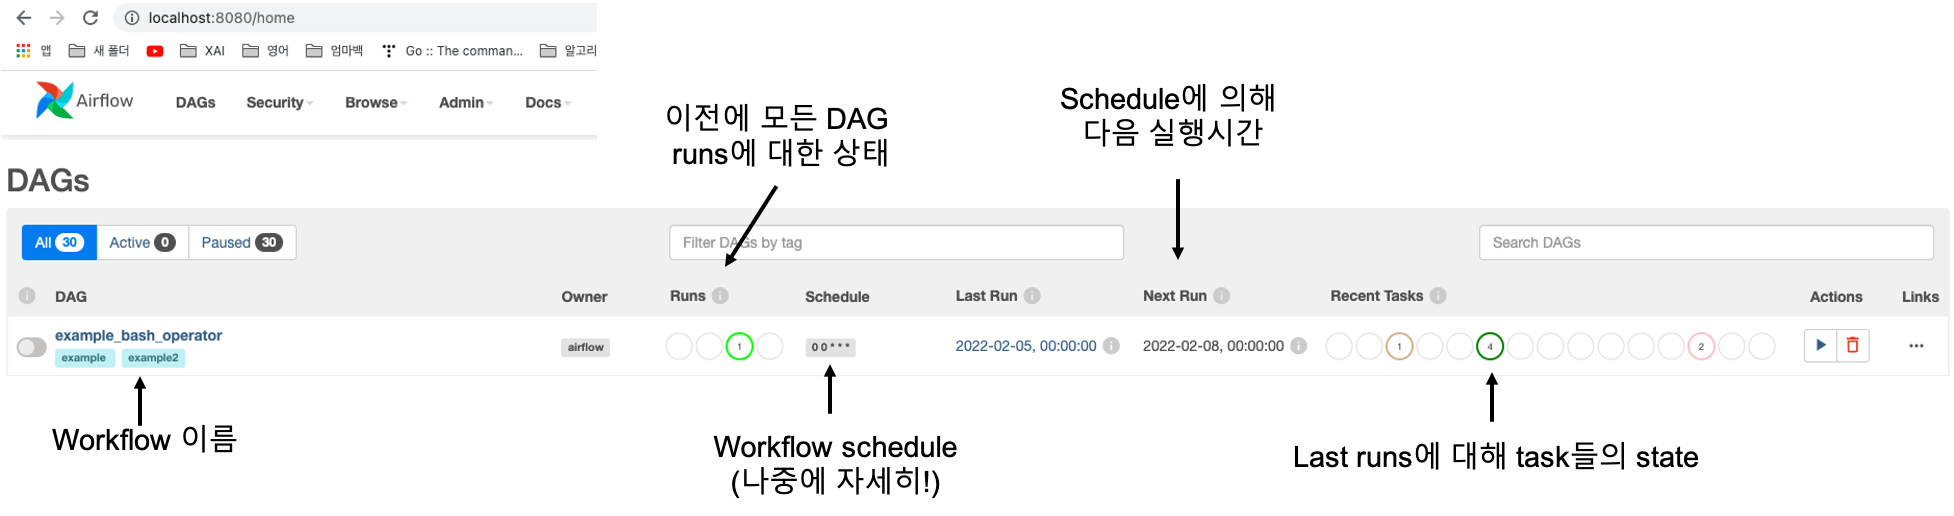
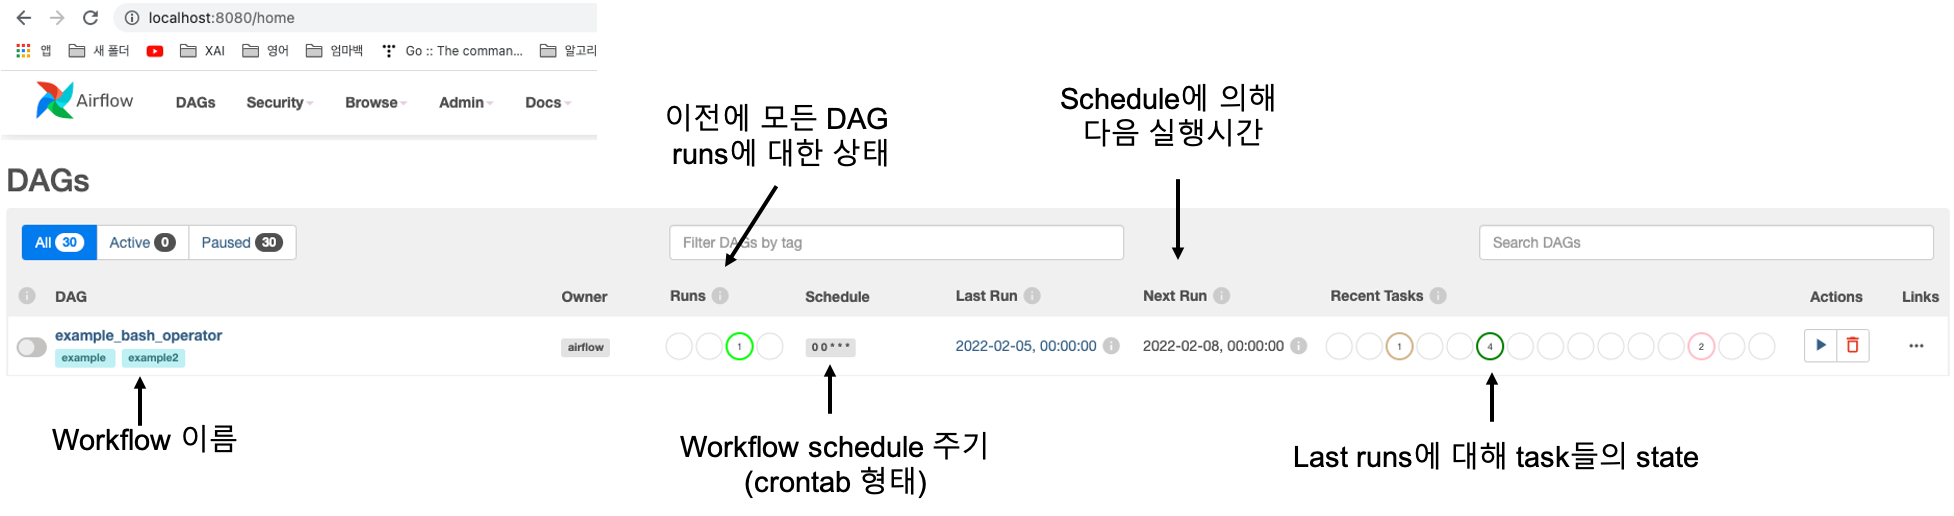
Update files

Changed region(s): [[0.3434, 0.8372, 0.4995, 0.9612]]

diff --git a/_posts/2022-01-25-Airflow1.md b/_posts/2022-01-25-Airflow1.md
@@ -142,8 +142,7 @@ Admin계정으로 user를 생성하였고 username과 password는 동일하게 a
 ![1](https://da2so.github.io/assets/post_img/2022-01-25-Airflow1/11.png){: .mx-auto.d-block width="80%" :}
 
 
-위 그림에서 DAG의 example과 각 column이 의미하는 내용을 적어놓았습니다. 그리고 example_bash_operator를 클릭하고 'Graph'라는 menu선택을 하면 다음과 같이 해당 workflow의 DAG를 확인가능합니다.
-
+위 그림에서 DAG의 example과 각 column이 의미하는 내용을 적어놓았습니다. schedule부분에서 crontab형태로 나타내며 [해당 사이트](https://crontab.guru/)에서 의미를 파악하시면 될것같습니다. 다음과 같은 그리고 example_bash_operator를 클릭하고 'Graph'라는 menu선택을 하면 다음과 같이 해당 workflow의 DAG를 확인가능합니다. 해당 example들은 db initialize를 통해 생성된 것이며 <span style="color:DodgerBlue">airflow dags list</span>명령어를 통하여 webserver에서 보이는 example들을 terminal에서 볼 수 있습니다. 
 
 
 ![1](https://da2so.github.io/assets/post_img/2022-01-25-Airflow1/13.png){: .mx-auto.d-block width="80%" :}
